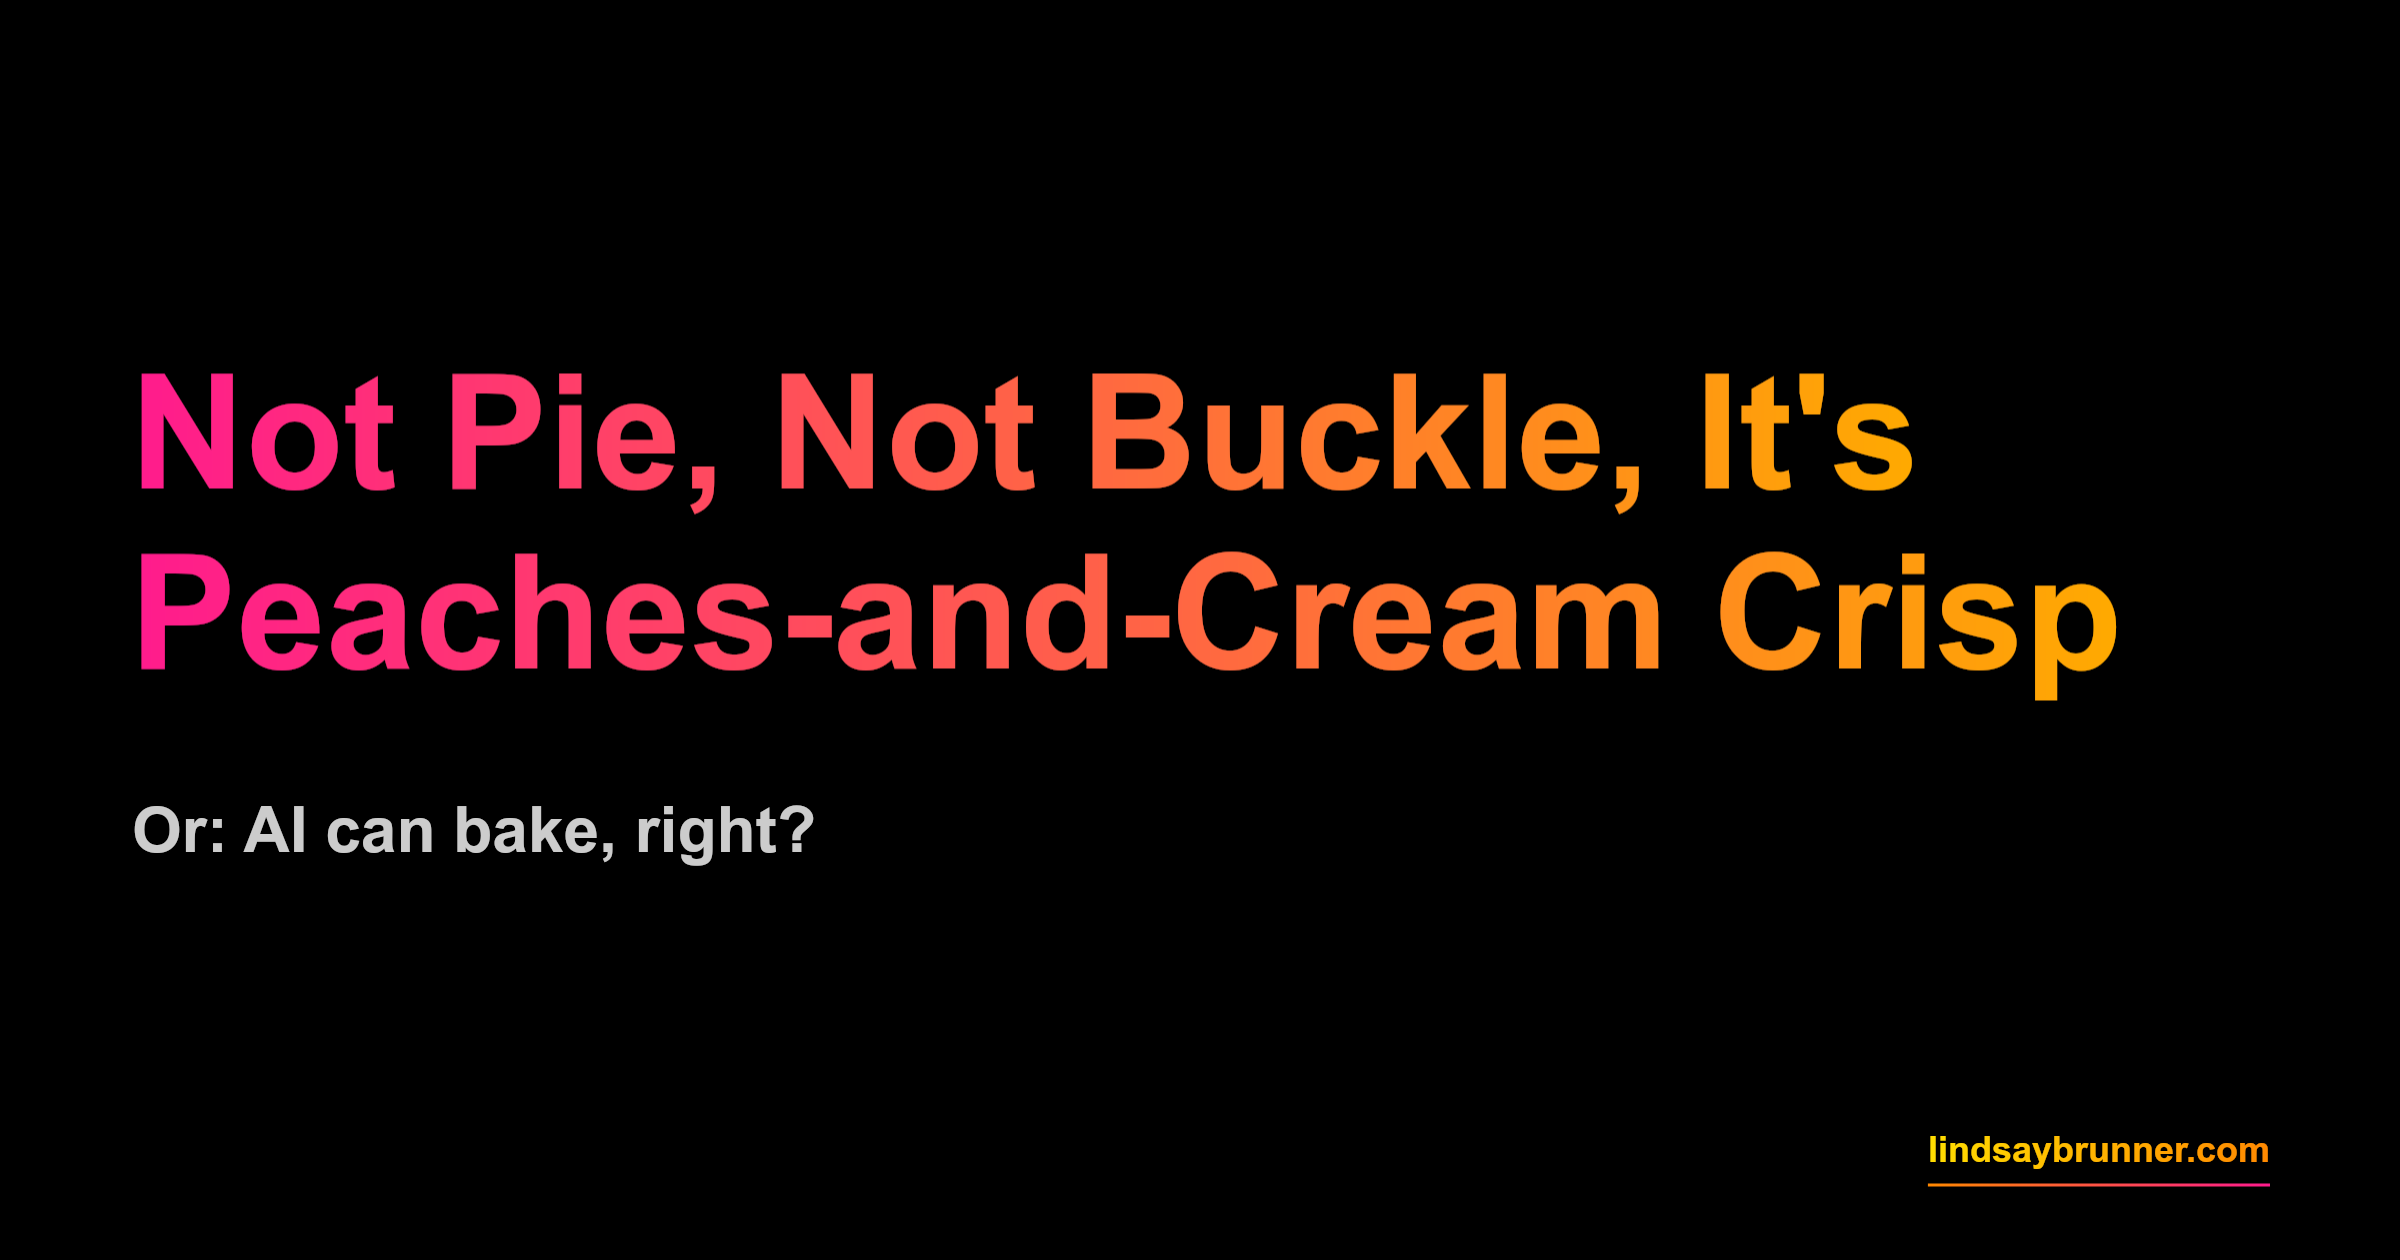
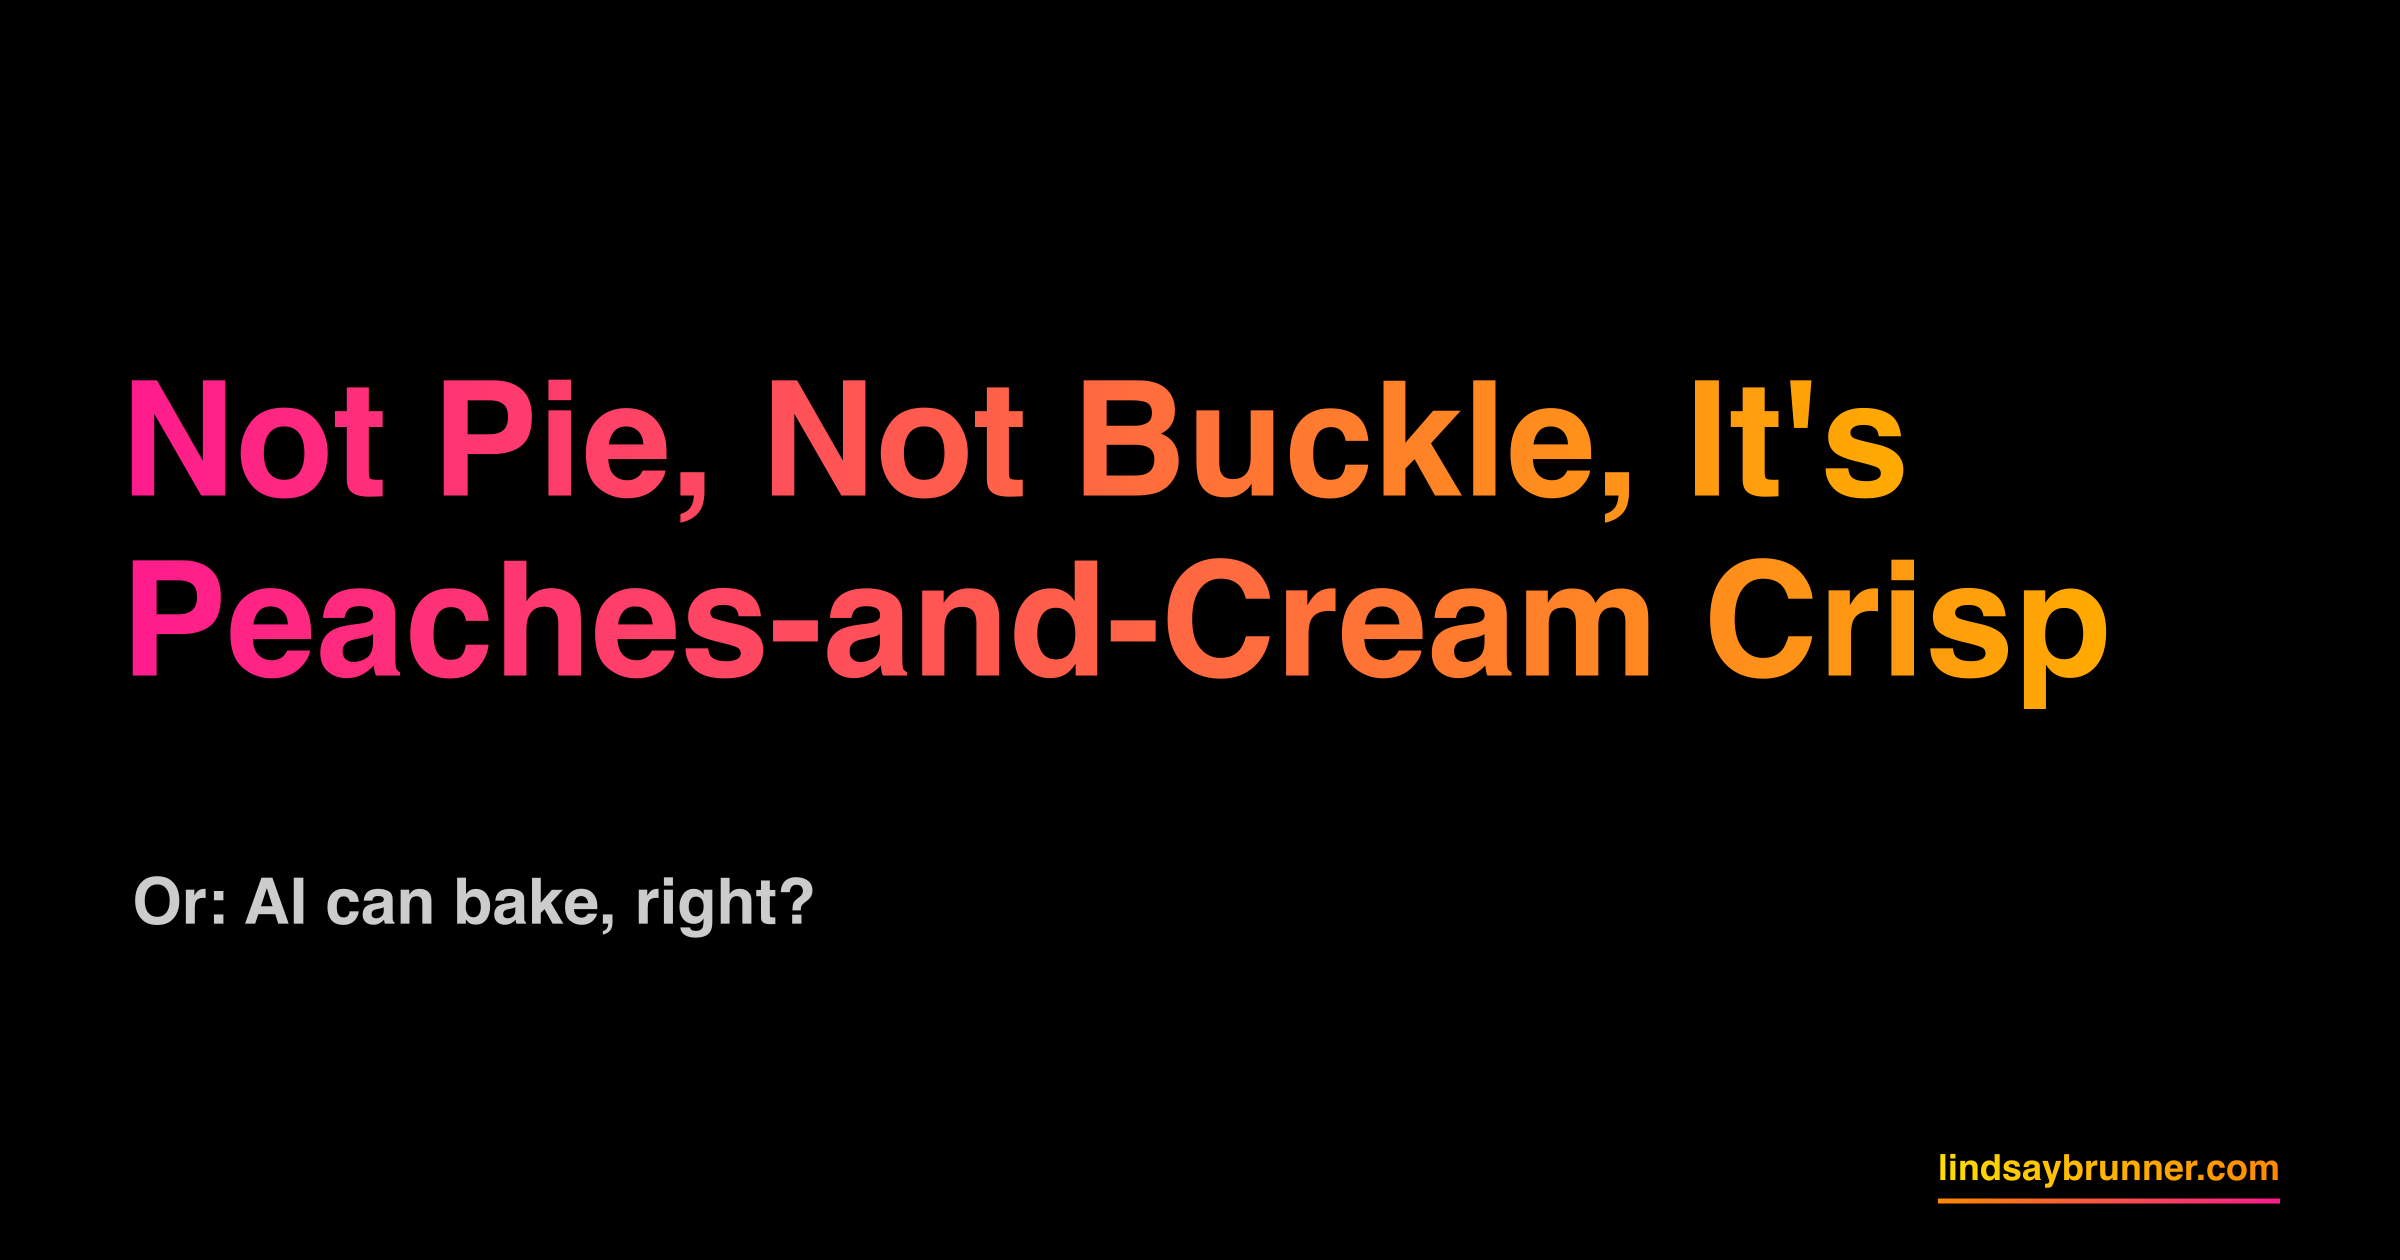
Improve OG image spacing and underline positioning
- Reduce spacing between title and subtitle from 80px to 20px
- Fix underline positioning in SVG with proper text metrics
- Increase underline stroke width from 3 to 5 for better visibility
- Improve gradient positioning using userSpaceOnUse coordinates
- Regenerate all recipe OG images with updated styling

diff --git a/scripts/generate-og-images.js b/scripts/generate-og-images.js
@@ -273,7 +273,8 @@ function generateOGImage(recipe) {
   });
   
   // Subtitle (if exists) - left-aligned, smaller, secondary color
-  let currentY = titleY + (titleLines.length * titleLineHeight) + 80;
+  // Reduced spacing from 80px to 20px to bring subtitle closer to headline
+  let currentY = titleY + (titleLines.length * titleLineHeight) + 20;
   const subtitleIndent = 12; // Move a few more pixels to the right
   if (recipe.subtitle && subtitleLines.length > 0) {
     ctx.font = `bold 64px "Inter", sans-serif`;
@@ -410,14 +411,26 @@ function generateSVG(recipe, layout) {
 `;
   
   // Add underline with gradient
+  // In SVG with text-anchor="end", the text ends at urlX, so underline should align with text edges
+  // Text starts at urlX - urlMetrics.width, ends at urlX
+  // With dominant-baseline="auto", urlY is the baseline. Need to add descent + spacing
+  // Text baseline is at urlY (1180), descent is ~7px for 36px font, so bottom is at urlY + 7
+  // Add 14px spacing below the text = 1180 + 7 + 14 = 1201 (more space from text)
+  const underlineY = Math.round(layout.urlY + layout.urlMetrics.actualBoundingBoxDescent + 14);
+  
+  // Underline aligns with text edges (no extension)
+  const underlineRightX = layout.urlX; // Text ends here (text-anchor="end")
+  const underlineLeftX = layout.urlX - layout.urlMetrics.width; // Text starts here
+  
   const underlineGradientId = 'underlineGradient';
+  // Use absolute coordinates for the gradient to match the line position
   svg += `  <defs>
-    <linearGradient id="${underlineGradientId}" x1="0%" y1="0%" x2="100%" y2="0%">
+    <linearGradient id="${underlineGradientId}" x1="${underlineLeftX}" y1="${underlineY}" x2="${underlineRightX}" y2="${underlineY}" gradientUnits="userSpaceOnUse">
       <stop offset="0%" style="stop-color:#ff8800;stop-opacity:1" />
       <stop offset="100%" style="stop-color:${COLORS.pink};stop-opacity:1" />
     </linearGradient>
   </defs>
-  <line x1="${layout.underlineLeftX}" y1="${layout.underlineY}" x2="${layout.underlineRightX}" y2="${layout.underlineY}" stroke="url(#${underlineGradientId})" stroke-width="3"/>
+  <line x1="${underlineLeftX}" y1="${underlineY}" x2="${underlineRightX}" y2="${underlineY}" stroke="url(#${underlineGradientId})" stroke-width="5"/>
 `;
 
   svg += `</svg>`;
